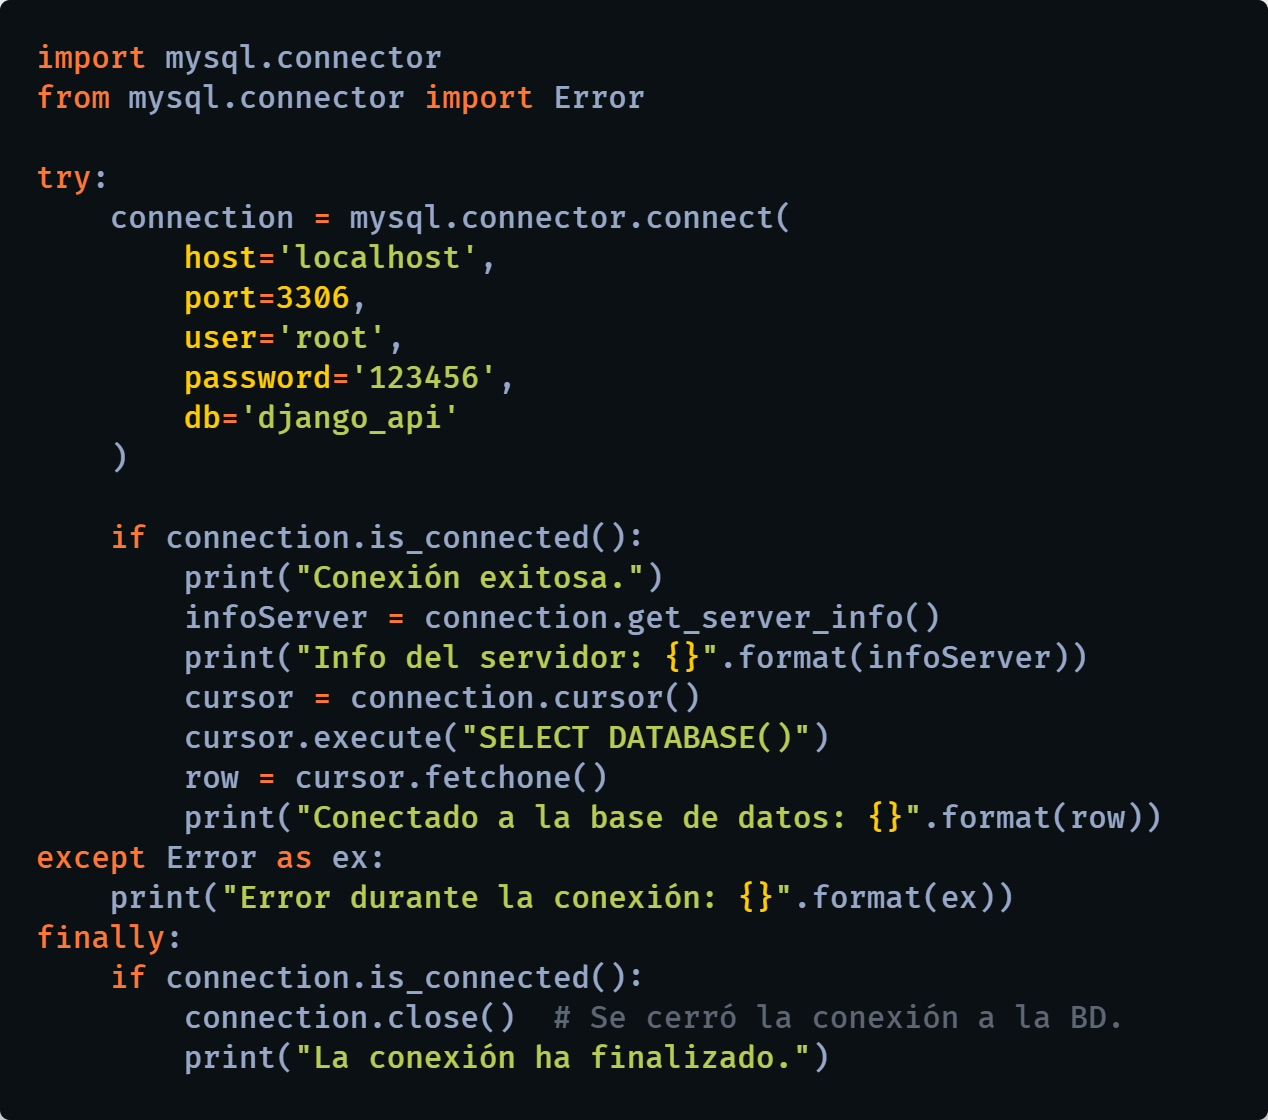
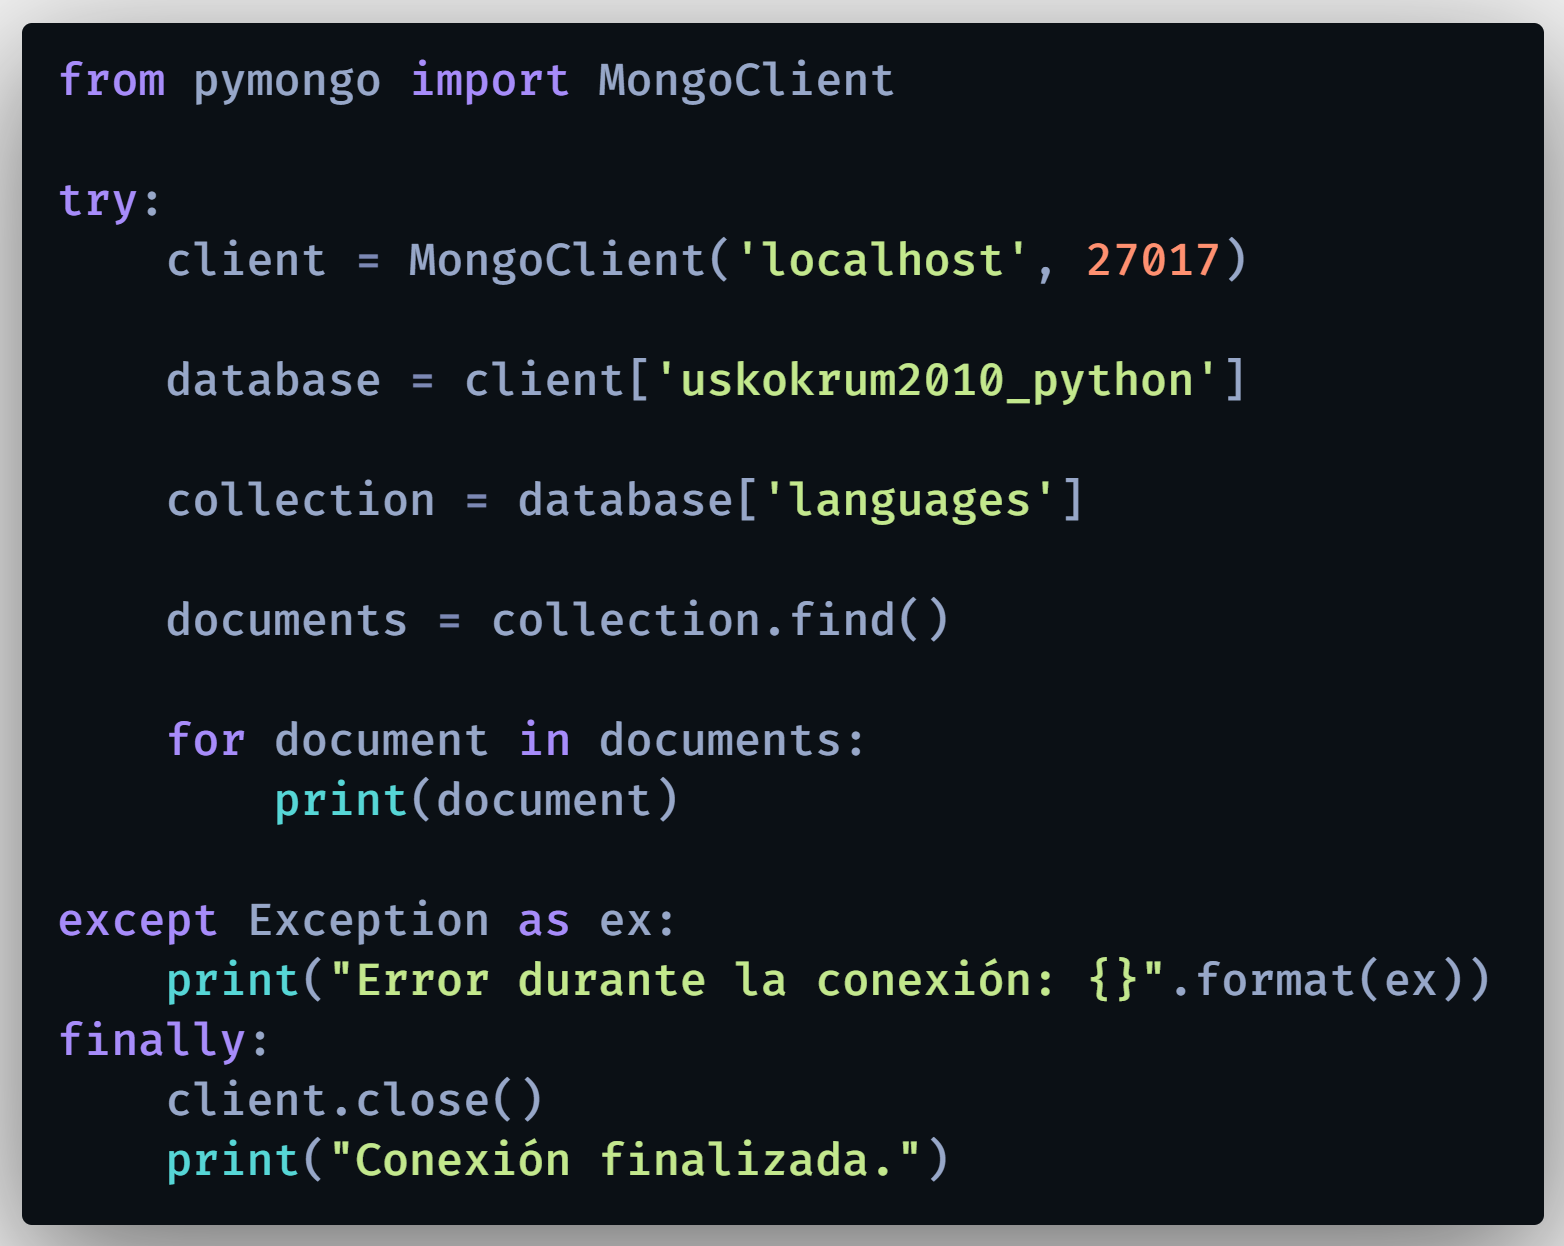
Commit 003: Conexión con MongoDB.

diff --git a/src/conexion_mongodb.py b/src/conexion_mongodb.py
@@ -1,0 +1,19 @@
+from pymongo import MongoClient
+
+try:
+    client = MongoClient('localhost', 27017)
+
+    database = client['uskokrum2010_python']
+
+    collection = database['languages']
+
+    documents = collection.find()
+
+    for document in documents:
+        print(document)
+
+except Exception as ex:
+    print("Error durante la conexión: {}".format(ex))
+finally:
+    client.close()
+    print("Conexión finalizada.")

diff --git a/README.md b/README.md
@@ -1,11 +1,13 @@
-# Python, conexión con MySQL, SQLite3, SQL Server, PostgreSQL y Oracle
+# Python, conexión con MySQL, SQLite3, SQL Server, PostgreSQL, Oracle y MongoDB
 
-Tutorial para conexión con Python hacia los sistemas gestores MySQL, Oracle, SQL Server, PostgreSQL y SQLite3.
+Tutorial para conexión con Python hacia los sistemas gestores MySQL, Oracle, SQL Server, PostgreSQL, SQLite3 y MongoDB.
 
 <hr/>
 
-Para instalar los paquetes necesarios:
+Primero, crear un entorno virtual:
+### `python -m virtualenv venv`
 
+Para instalar los paquetes necesarios:
 ### `pip install -r requirements.txt`
 
 <hr/>
@@ -15,6 +17,12 @@ Para instalar los paquetes necesarios:
 ![](./preview2.png)
 <br/>
 ![](./preview3.png)
+<br/>
+![](./preview4.png)
+<br/>
+![](./preview5.png)
+<br/>
+![](./preview6.png)
 
 # 🌍 Por si deseas contactarme 👨💻 :
 
